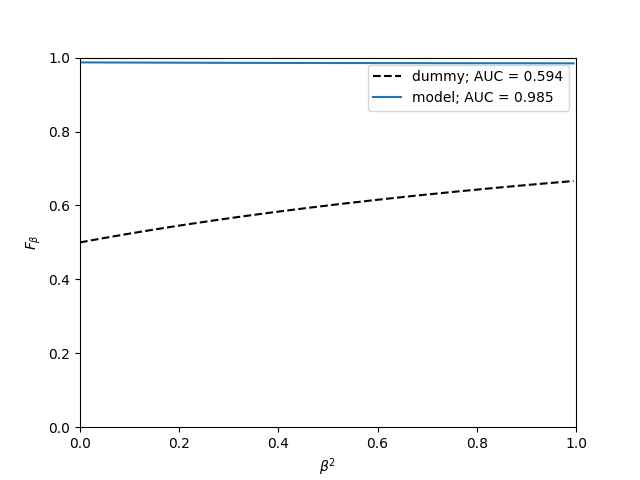
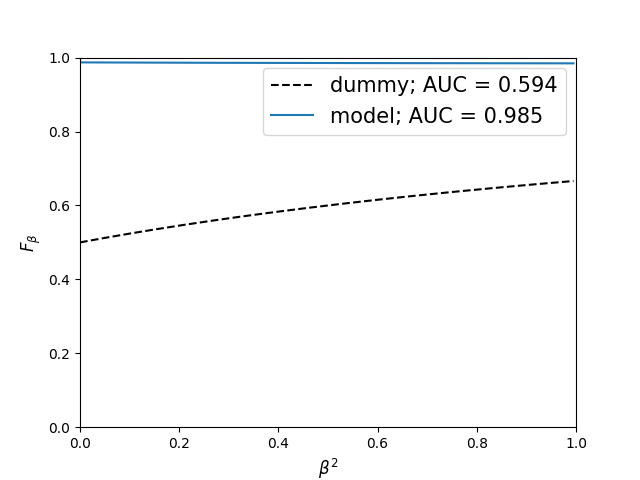
graphs updated

diff --git a/Classification/src/fbeta_recall.py b/Classification/src/fbeta_recall.py
@@ -34,6 +34,8 @@ def fbeta(network_model, batch_size, n_epochs, optimizer, data_set='heridal', tr
     label = 'model; AUC = {:.3f}'
     dummy_label = 'dummy; AUC = {:.3f}'
     plt.figure()
+    plt.rc('axes', labelsize=12)
+    plt.rc('legend', fontsize=15)
     plt.plot(1 / beta2_array, dummy, 'k--', label=dummy_label.format(dummy_area))
     plt.plot(1 / beta2_array, np.asarray(f_beta_list), label=label.format(area))
     plt.xlim([0, 1])
@@ -74,8 +76,8 @@ def fbeta(network_model, batch_size, n_epochs, optimizer, data_set='heridal', tr
         label = 'model; AUC = {:.3f}'
         dummy_label = 'dummy; AUC = {:.3f}'
         plt.figure()
-        plt.rc('axes', labelsize=18)
-        plt.rc('legend', fontsize=18) 
+        plt.rc('axes', labelsize=12)
+        plt.rc('legend', fontsize=15) 
         plt.plot(1 / beta2_array, dummy, 'k--', label=dummy_label.format(dummy_area))
         plt.plot(1 / beta2_array, np.asarray(f_beta_list), label=label.format(area))
         plt.xlim([0, 1])

diff --git a/Classification/src/fbeta_precision.py b/Classification/src/fbeta_precision.py
@@ -34,6 +34,8 @@ def fbeta(network_model, batch_size, n_epochs, optimizer, data_set='heridal', tr
     label = 'model; AUC = {:.3f}'
     dummy_label = 'dummy; AUC = {:.3f}'
     plt.figure()
+    plt.rc('axes', labelsize=12)
+    plt.rc('legend', fontsize=15)
     plt.plot(beta2_array, dummy, 'k--', label=dummy_label.format(dummy_area))    
     plt.plot(beta2_array, np.asarray(f_beta_list), label=label.format(area))
     plt.xlim([0, 1])
@@ -73,6 +75,8 @@ def fbeta(network_model, batch_size, n_epochs, optimizer, data_set='heridal', tr
         label = 'model; AUC = {:.3f}'
         dummy_label = 'dummy; AUC = {:.3f}'
         plt.figure()
+        plt.rc('axes', labelsize=12)
+        plt.rc('legend', fontsize=15)
         plt.plot(beta2_array, dummy, 'k--', label=dummy_label.format(dummy_area))
         plt.plot(beta2_array, np.asarray(f_beta_list), label=label.format(area))
         plt.xlim([0, 1])
